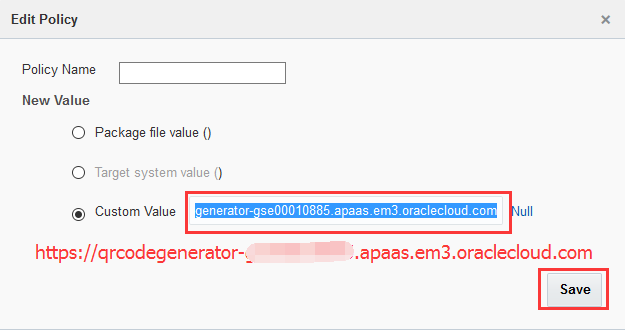
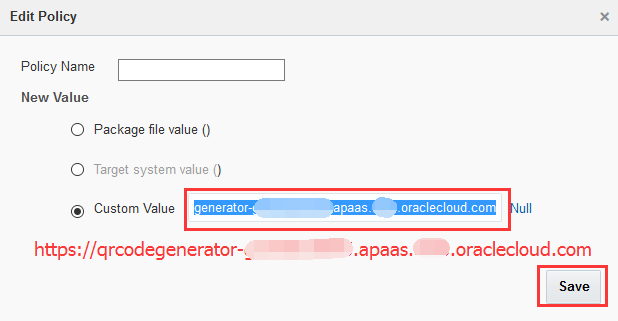
Minor changes

diff --git a/Mobile Service and App/401-MobileLab.md b/Mobile Service and App/401-MobileLab.md
@@ -45,33 +45,33 @@ To create the above 3 Connectors, you will:
 7. On the 'confirm' step, the contents of the package are shown. The package should include Mobile Backend 'LoyaltyMgmt_MBE0X', Client 'MyAndroidClient0X', API 'LoyaltyMgmt0X', API implementation 'LoyaltyMgmt03', and 3 connectors 'GenerateQRCode0X', 'ProcessOffer0X', and 'QueryOffers03'. Make sure the postfix is correct in each object to be imported. Click 'Next'
 ![](../common/images/mobile/401-Import_Package_Confirm.png)
 
-8. On the 'Import Results' step, verify all objects have been imported successully, except the user realm 'Default' which already exists. Click 'Next'.
+8. On the 'Import Results' step, verify all objects have been imported successfully, except the user realm 'Default' which already exists. Click 'Next'.
 ![](../common/images/mobile/401-Import_Package_Results.png)
 
 9. On the 'Policies' step, select the policy '*.connector/GenerateQRCode0X(1.0).Connector_Endpoint' and click on 'Edit'.
 ![](../common/images/mobile/401-Import_Package_Select_GenerateQRCode_Endpoint.png)
 
-10. Set a custom value as the Host URL of the QR code service deployed on ACCS, e.g. `https://qrcodegenerator-<ACCS_DOMAIN_NAME>.apaas.em3.oraclecloud.com`. Click 'Save'.
+10. Set a custom value as the Host URL of the QR code service deployed on ACCS, e.g. `https://qrcodegenerator-<ACCS_DOMAIN_NAME>.apaas.<DATACENTER>.oraclecloud.com`. Click 'Save'.
 ![](../common/images/mobile/401-Import_Package_Update_GenerateQRCode_Endpoint.png)
 
 11. Back in the 'Policies' step, select the policy '*.connector/QueryOffers0X(1.0).Connector_Endpoint' and click on 'Edit'.
 ![](../common/images/mobile/401-Import_Package_Select_QueryOffers_Endpoint.png)
 
-12. Set a custom value as the Host URL of the offer service deployed on ACCS, e.g. `https://offer-<ACCS_DOMAIN_NAME>.apaas.em3.oraclecloud.com`. Click 'Save'.
+12. Set a custom value as the Host URL of the offer service deployed on ACCS, e.g. `https://offer-<ACCS_DOMAIN_NAME>.apaas.<DATACENTER>.oraclecloud.com`. Click 'Save'.
 ![](../common/images/mobile/401-Import_Package_Update_QueryOffers_Endpoint.png)
 
 13. Back in the 'Policies' step, select the policy '*.connector/ProcessOffer0X(1.0).Connector_Endpoint' and click on 'Edit'.
 ![](../common/images/mobile/401-Import_Package_Select_ProcessOffer_Endpoint.png)
 
-14. Set a custom value as the full service URL of the 'Process Offer' service deployed on ICS, e.g. `https://integration-<ICS_DOMAIN_NAME>.integration.us2.oraclecloud.com/integration/flowapi/rest/C0X_ICS_INTMGT/v01/processoffer`. Click 'Save'.
+14. Set a custom value as the full service URL of the 'Process Offer' service deployed on ICS, e.g. `https://integration-<ICS_DOMAIN_NAME>.integration.<DATACENTER>.oraclecloud.com/integration/flowapi/rest/C0X_ICS_INTMGT/v01/processoffer`. Click 'Save'.
 ![](../common/images/mobile/401-Import_Package_Update_ProcessOffer_Endpoint.png)
 
-15. Back in the 'Policies' step, verify that you have successfully set new values for all three connector endpoint policies, and clieck 'Update' to complete importing the package.
+15. Back in the 'Policies' step, verify that you have successfully set new values for all three connector endpoint policies, and click 'Update' to complete importing the package.
 ![](../common/images/mobile/401-Import_Package_Complete_Update_Policies.png)
 
 
 #### Configure credential to access 'Process Offer' service on ICS ####
-The 'Process Offer' service deployed on ICS is configured to use 'Basic Authentication' in the 'integrations' lab. To integrate with the 'Process Offer' service, you should configure the ICS credential on MCS so that the connector on MCS is authorzied to access the 'Process Offer' on ICS.
+The 'Process Offer' service deployed on ICS is configured to use 'Basic Authentication' in the 'integrations' lab. To integrate with the 'Process Offer' service, you should configure the ICS credential on MCS so that the connector on MCS is authorized to access the 'Process Offer' on ICS.
 
 1. From the navigation pane, click on “Administration” to open the "Administration" page. Scroll down to the bottom and click on "Keys & Certificates" to open the "CSF Keys & Certificates" box.
 ![](../common/images/mobile/401-CSF_Navigate_To_CSF.png)
